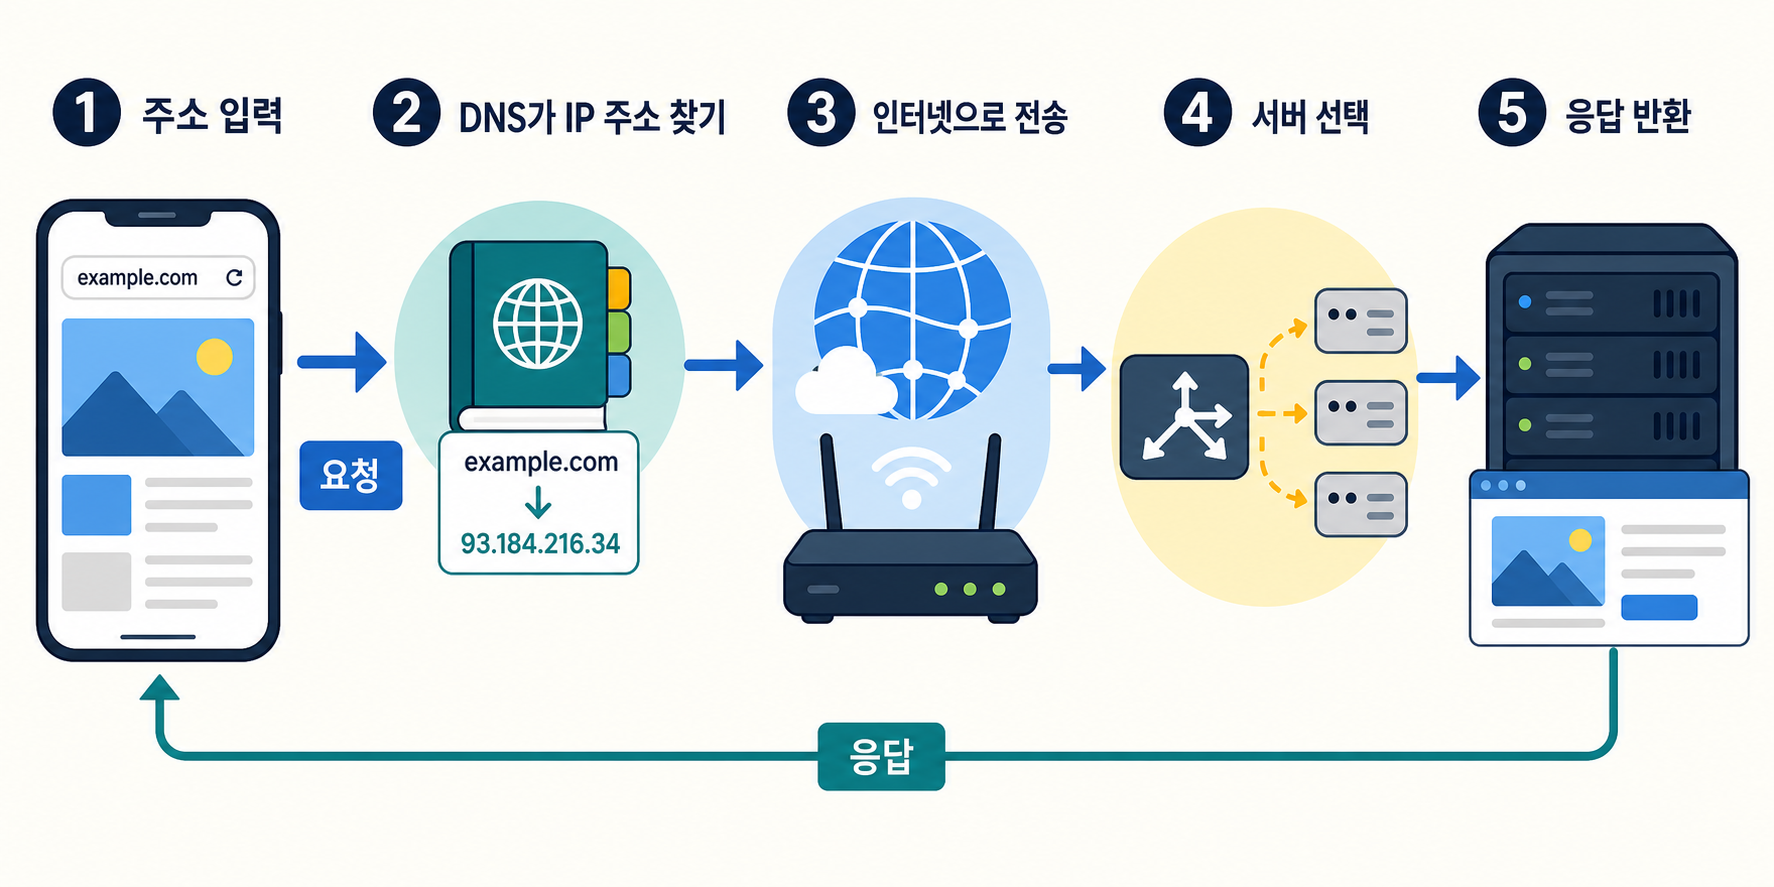
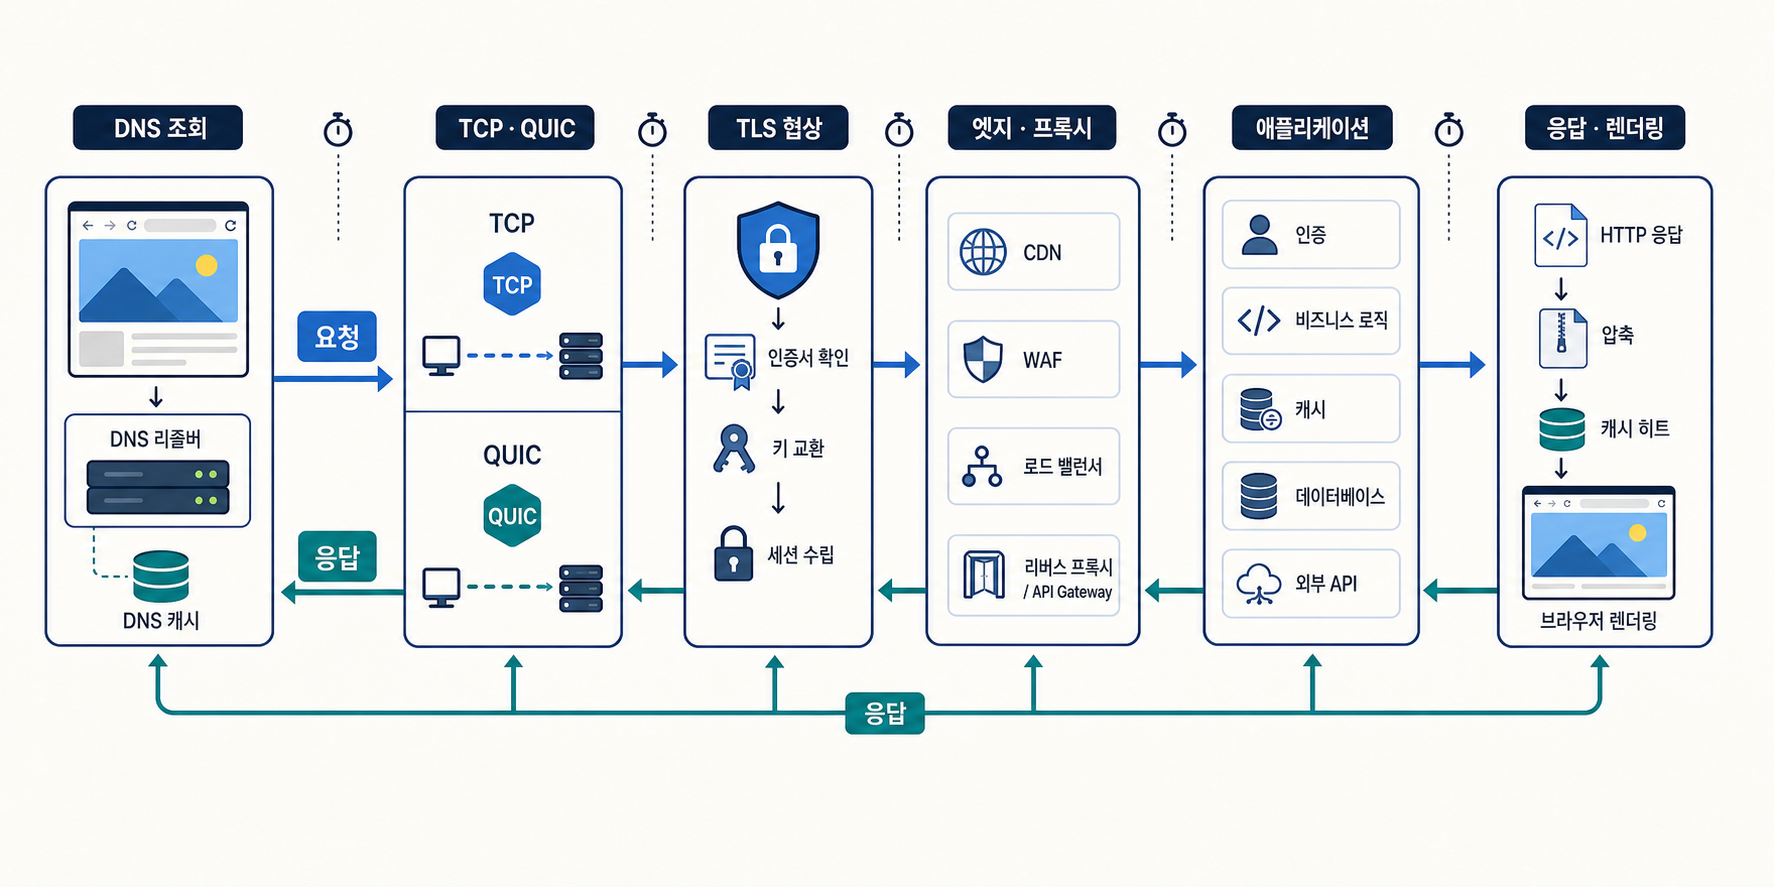
네트워크 용어 글의 요청 흐름과 가독성 개선

diff --git a/_posts/It/2021-09-24-it-word-list-network.md b/_posts/It/2021-09-24-it-word-list-network.md
@@ -16,9 +16,8 @@ toc: true
 >
 > **이 글의 바로가기**
 >
-> - [처음 보는 사람을 위한 네트워크 지도](#처음-보는-사람을-위한-네트워크-지도)
->   - [주소 입력부터 응답까지](#주소-입력부터-응답까지)
->   - [초보자 학습 순서](#초보자-학습-순서)
+> - [웹 요청 처리 경로](#웹-요청-처리-경로)
+>   - [요청 수명주기](#요청-수명주기)
 > - [네트워크 핵심](#용어정리--네트워크-핵심)
 >   - [웹 요청 흐름과 계층](#웹-요청-흐름과-계층)
 >   - [TCP와 UDP](#tcp와-udp)
@@ -37,38 +36,36 @@ toc: true
 > - [네트워크 프로토콜](#용어정리--네트워크-프로토콜)
 >   - [계층별 주요 프로토콜](#계층별-주요-프로토콜)
 > - [네트워크 참고 용어](#네트워크-참고-용어)
+>   - [인증과 관리 영역](#인증과-관리-영역)
+>   - [데이터 표현과 전송 기본](#데이터-표현과-전송-기본)
+>   - [회선, 단말, 연결 구조](#회선-단말-연결-구조)
+>   - [프레임과 통신 방식](#프레임과-통신-방식)
+>   - [표준, 운영, 레거시 기술](#표준-운영-레거시-기술)
+>   - [라우팅과 주소 체계](#라우팅과-주소-체계)
+>   - [품질, 가용성, 라우팅 운영](#품질-가용성-라우팅-운영)
+>   - [웹 서비스 연동](#웹-서비스-연동)
 
 
-# 처음 보는 사람을 위한 네트워크 지도
+# 웹 요청 처리 경로
 
-네트워크는 **서로 떨어진 기기들이 정해진 약속에 따라 데이터를 주고받는 과정**이다.
+네트워크 요청은 이름 해석, 연결 수립, 암호화 협상, 트래픽 라우팅, 애플리케이션 처리의 연속된 단계로 실행된다.
 
-처음부터 모든 프로토콜을 외우기보다, 브라우저에 주소를 입력한 뒤 화면이 나타날 때까지의 흐름을 먼저 잡으면 나머지 용어가 어디에 쓰이는지 이해하기 쉽다.
+각 단계를 분리해서 보면 지연과 장애가 DNS, 전송 계층, TLS, 프록시, 애플리케이션 중 어디에서 발생했는지 추적하기 쉽다.
 
-## 주소 입력부터 응답까지
+## 요청 수명주기
 
-![브라우저에 주소를 입력한 뒤 DNS 조회, 인터넷 전송, 서버 선택을 거쳐 응답이 돌아오는 전체 흐름](/images/it/network-web-request-journey.png)
+![DNS 조회, TCP·QUIC 연결, TLS 협상, 엣지 프록시, 애플리케이션 처리와 응답 렌더링으로 이어지는 웹 요청 수명주기](/images/it/network-web-request-journey.png)
 
-1. **주소 입력** : 브라우저에 `example.com` 같은 도메인을 입력한다.
-2. **목적지 찾기** : DNS가 사람이 읽는 도메인을 서버의 IP 주소로 바꿔 준다.
-3. **연결하고 전송하기** : TCP 또는 QUIC으로 연결하고, HTTPS라면 TLS로 안전한 통로를 만든 뒤 HTTP 요청을 보낸다.
-4. **처리할 서버 고르기** : 로드밸런서나 리버스 프록시가 요청을 적절한 서버로 전달한다.
-5. **응답 받기** : 서버가 HTML, JSON, 이미지 같은 응답을 보내면 브라우저가 화면을 구성한다.
+1. **이름 해석** : 브라우저·OS·리졸버 캐시를 확인하고, 필요한 경우 권한 네임서버까지 조회해 도메인에 대응하는 IP 주소를 얻는다.
+2. **연결 수립** : HTTP/1.1·HTTP/2는 일반적으로 TCP 연결을 수립하고, HTTP/3는 UDP 기반 QUIC 연결을 사용한다.
+3. **보안 협상** : HTTPS에서는 TLS 핸드셰이크로 서버 인증서를 검증하고 암호 스위트와 세션 키를 합의한다.
+4. **요청 전달** : HTTP 요청이 CDN, 로드밸런서, 리버스 프록시 또는 API Gateway를 거쳐 대상 애플리케이션으로 전달된다.
+5. **애플리케이션 처리** : 서버가 인증·인가, 비즈니스 로직, 캐시 및 데이터베이스 조회, 외부 API 호출 등을 수행한다.
+6. **응답과 후속 처리** : 응답은 프록시 계층을 역순으로 통과하며 필요하면 캐시·압축된다. 브라우저는 응답을 파싱하고 추가 리소스를 요청한 뒤 화면을 렌더링한다.
 
-> **한 문장으로 기억하기**
+> **계층별 역할**
 >
-> DNS는 **주소를 찾고**, TCP·UDP·QUIC은 **데이터를 운반하고**, TLS는 **내용을 보호하고**, HTTP는 **요청과 응답의 형식을 정한다.**
-
-## 초보자 학습 순서
-
-이 글은 아래 네 그룹 순서로 읽으면 이해하기 쉽다.
-
-1. **요청의 기본 흐름** : 웹 요청 흐름 → TCP와 UDP → HTTP → HTTPS와 TLS → DNS
-2. **서버 앞의 교통정리** : 프록시 → 로드밸런서 → 고가용성 → API Gateway
-3. **운영과 장애 대응** : timeout → 지연 시간 → 상태 코드 → 클라우드 네트워크
-4. **용어 확장** : 계층별 프로토콜 → 네트워크 참고 용어
-
-각 용어를 볼 때는 **누가 누구에게**, **무엇을**, **어떤 규칙으로 보내는가** 세 가지만 먼저 확인하면 된다.
+> DNS는 목적지를 해석하고, TCP·UDP·QUIC은 전송 특성을 결정하며, TLS는 기밀성과 무결성을 제공한다. HTTP는 애플리케이션 메시지의 의미와 교환 방식을 정의한다.
 
 
 # 용어정리 – 네트워크 핵심
@@ -424,6 +421,10 @@ toc: true
 
 # 용어정리 – 네트워크 프로토콜
 
+![응용·전송·인터넷·네트워크 접속 계층을 따라 캡슐화되어 두 호스트 사이를 이동하는 주요 네트워크 프로토콜 지도](/images/it/network-protocol-layer-map.png)
+
+위에서 아래로 내려갈수록 애플리케이션 데이터에 전송 정보, IP 주소, 프레임 정보가 차례로 붙는다. 수신 측에서는 반대 순서로 이를 해석하며, 각 계층의 프로토콜은 맡은 범위 안에서 서로 협력한다.
+
 ## 계층별 주요 프로토콜
 
 * **네트워크 전송 계층 (물리/데이터링크)**
@@ -470,6 +471,8 @@ toc: true
 아래 항목은 실무 백엔드 개발에서 매번 쓰는 핵심 흐름보다는 네트워크 장비, 레거시 프로토콜, 용어 확인용에 가깝다.
 필요할 때 사전처럼 참고하면 된다.
 
+## 인증과 관리 영역
+
 * **AAA** : 인증(authentication), 권한 부여(authorization), 계정관리(accounting)
 
 
@@ -478,6 +481,8 @@ toc: true
 
 * **ASBR** : AS 간의 연결을 위한 라우터
 
+
+## 데이터 표현과 전송 기본
 
 * **ASCII** : 미국 정보교환 표준코드, 문자를 표현하는데 쓰이는 7비트 코드 체계
 
@@ -508,6 +513,8 @@ toc: true
 
 * **connectionless** : 통신시에 전송 대상 간의 연결을 먼저 하지 않고 데이터를 전송하는 방식 <->connection oriented
 
+
+## 회선, 단말, 연결 구조
 
 * **CPE** : 전화 회사로부터 정보 서비스를 받기 위해 사용자의 사무실 또는 집에 설치되는 장비, 주로 터미널, 전화기 ,모뎀 등과 같은 통신 단말기 등이 여기에 속한다.
 
@@ -541,6 +548,8 @@ toc: true
 
 * **encryption** : 데이터를 볼 권한이 없는 사람들은 이해할 수 없는 형태로 암호화하는 것을 뜻함.
 
+
+## 프레임과 통신 방식
 
 * **FECN** : 프레임 릴레이 네트워크에서 프레임을 수신하는 장비에게 전송 중에 통신 폭주가 발생했음을 알려주기 위해 설정하는 비트
 
@@ -589,6 +598,8 @@ toc: true
 * **header** : 데이터를 인캡슐레이션 할 때 데이터 앞에 넣는 제어 정보를 말함
 
 
+## 표준, 운영, 레거시 기술
+
 * **IETF** : 인터넷 표준을 개발하는 것을 담당하는 특별 위원회
 
 
@@ -612,6 +623,8 @@ toc: true
 
 * **Mesh** : 많은 리던던시(redundancy) 상호 연결 장치들을 네트워크 노드 사이에 전략적으로 배치해 장치들을 관리하기 쉽고 세그먼트로 나누어서 조직하는 네트워크 토폴로지, 보통 메시를 구분할 때 full mesh(완전매시형)와 partial mesh(부분매시형)로 나누어서 말한다.
 
+
+## 라우팅과 주소 체계
 
 * **MOSPF** : Multicast OSPF 의 약어, OSPF 네트워크에서 사용하는 도메인 내부의 멀티캐스트 라우팅 프로토콜이다.
 
@@ -657,6 +670,8 @@ toc: true
 
 * **ping** : packet internet groper, ICMP는 메시지와 메시지의 응답을 이용한 프로그램이다. 네트워크 장치의 도달 능력을 테스트하기 위해 IP네트워크에서 사용된다.
 
+
+## 품질, 가용성, 라우팅 운영
 
 * **poison reverse update** : 어떤 네트워크를 업데이트에 포함시키지 않음으로써 그 네트워크에 도달할 수 없음을 간접적으로 나타내는 것이 아니라, 명시적으로 그 네트워크나 서브넷을 도달할 수 없는 것으로 표시하는 라우팅 업데이트 방식이다. 포이즌 리버스 업데이트는 커다란 라우팅 루프에 빠지는 것을 방지하기 위해 사용되었다.
 
@@ -723,6 +738,8 @@ toc: true
 
 * **subnetwork** : IP네트워크에서 특정한 서브넷 주소를 공유하는 네트워크이다. 서브 네트워크는 네트워크 관리자들이 다중 레벨로 된 계층형 라우팅 구조를 제공하면서 연결된 네트워크들의 복잡한 주소 지정 구조를 알 필요가 없게 하기 위해 임의로 분할한 네트워크이다. 때때로 subnet이라고도 한다.
 
+
+## 웹 서비스 연동
 
 * **웹 서비스** : 웹이라는 네트워크 환경에 연결된 서로 다른 컴퓨터들이 동적으로 연결되고 소통하고 실행할 수 있도록 하는 동적환경구성을 위한 소프트웨어 컴포넌트 묶음
 